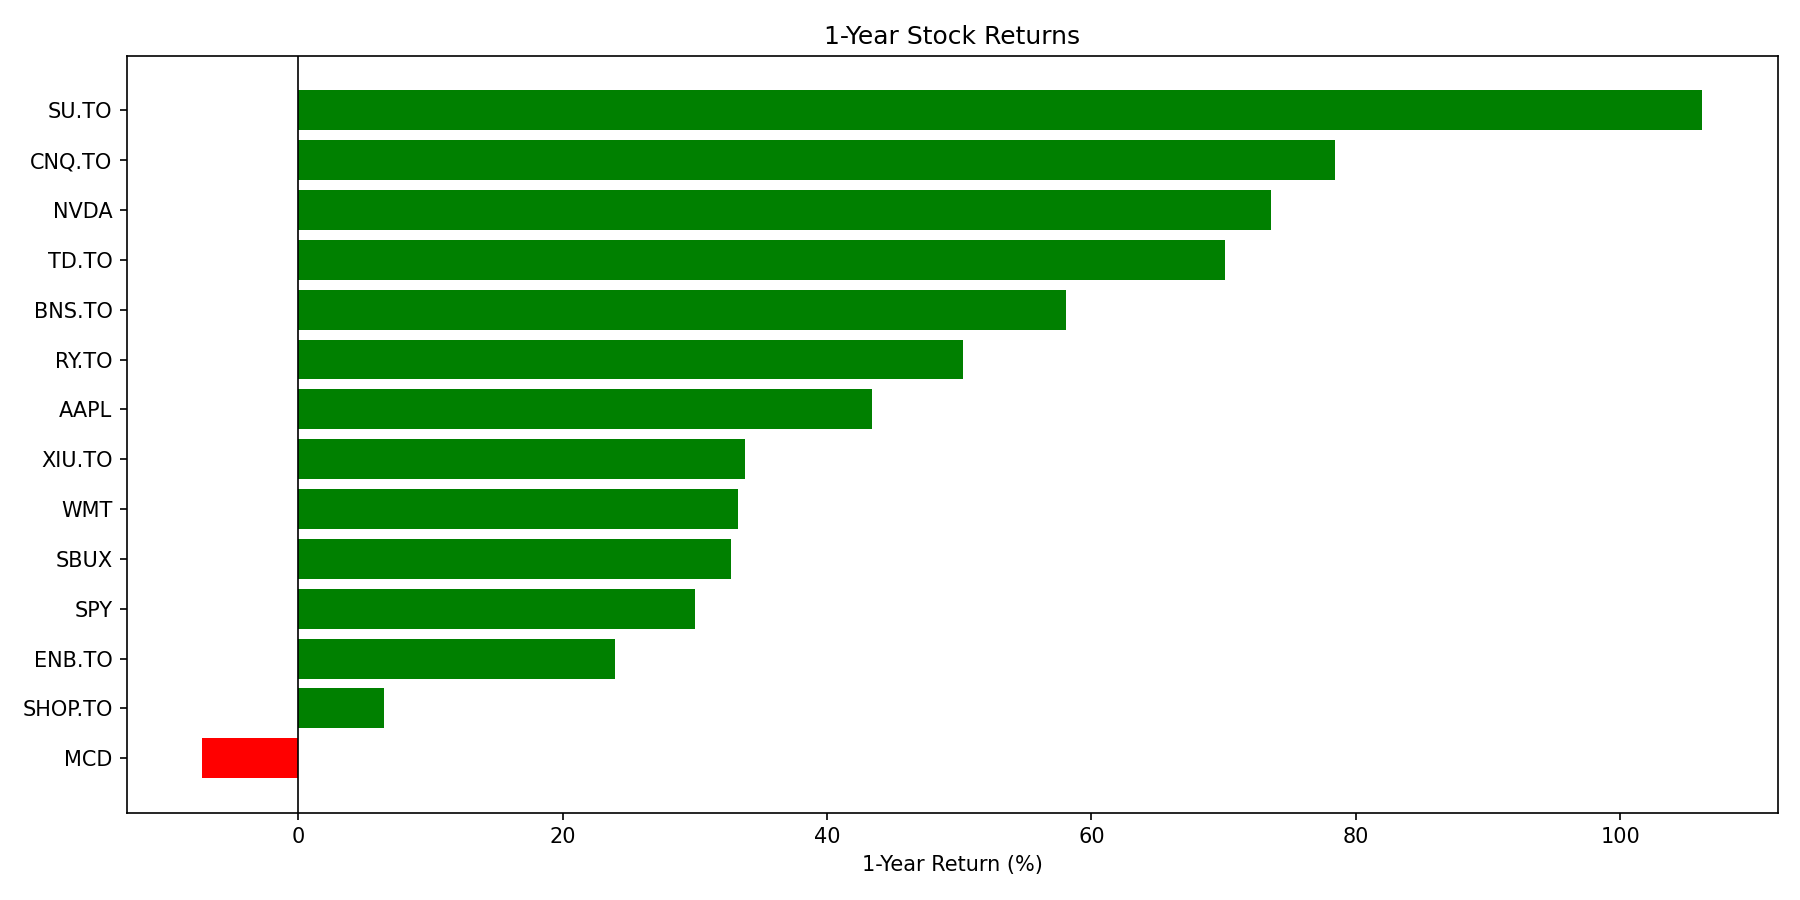
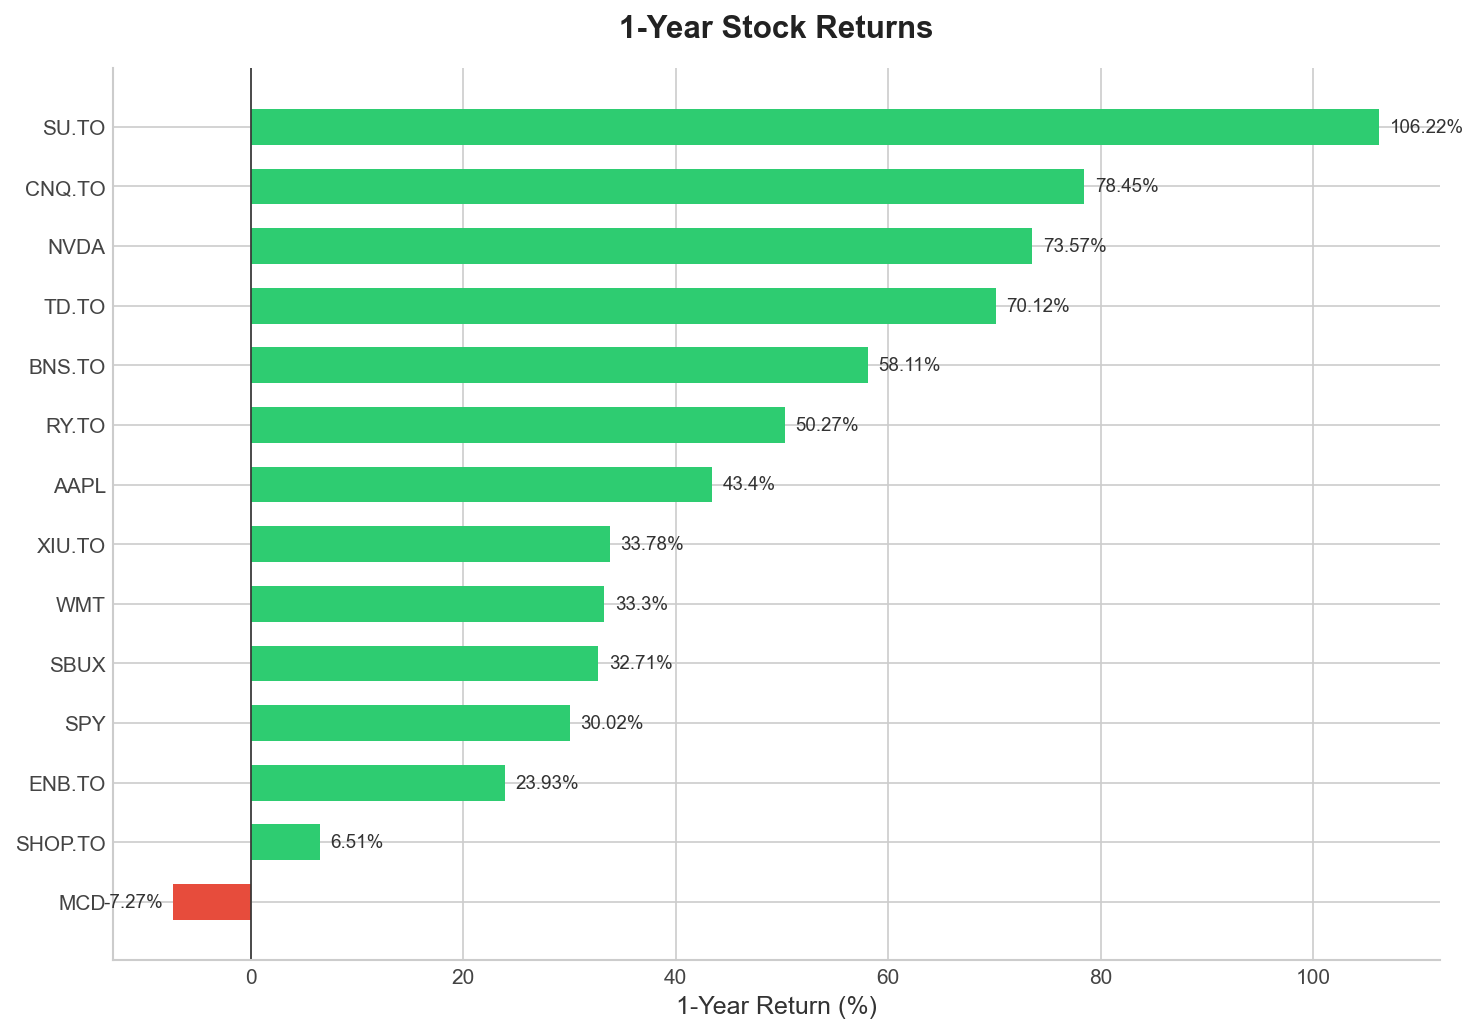
Clean up README

diff --git a/charts.py b/charts.py
@@ -1,12 +1,13 @@
 import pandas as pd
 import matplotlib.pyplot as plt
 import matplotlib
-matplotlib.use('Agg')
-
 import os
+
+matplotlib.use('Agg')
+plt.style.use('seaborn-v0_8-whitegrid')
+
 os.makedirs("outputs", exist_ok=True)
 
-# Load data
 prices = pd.read_csv("prices.csv", index_col=0, parse_dates=True)
 
 sectors = {
@@ -17,27 +18,31 @@ sectors = {
     "Index":          ["SPY", "XIU.TO"]
 }
 
-# Calculate returns
 returns = {}
 for ticker in prices.columns:
     start = prices[ticker].dropna().iloc[0]
     end = prices[ticker].dropna().iloc[-1]
     returns[ticker] = round(((end - start) / start) * 100, 2)
 
-# --- Chart 1: Individual stock returns bar chart ---
-fig, ax = plt.subplots(figsize=(12, 6))
-tickers = list(returns.keys())
-values = list(returns.values())
-colors = ["green" if v >= 0 else "red" for v in values]
-sorted_pairs = sorted(zip(values, tickers))
+# --- Chart 1: Individual stock returns ---
+sorted_pairs = sorted(zip(returns.values(), returns.keys()))
 values_sorted, tickers_sorted = zip(*sorted_pairs)
-colors_sorted = ["green" if v >= 0 else "red" for v in values_sorted]
-ax.barh(tickers_sorted, values_sorted, color=colors_sorted)
-ax.axvline(0, color="black", linewidth=0.8)
-ax.set_xlabel("1-Year Return (%)")
-ax.set_title("1-Year Stock Returns")
+colors = ["#2ecc71" if v >= 0 else "#e74c3c" for v in values_sorted]
+
+fig, ax = plt.subplots(figsize=(10, 7))
+bars = ax.barh(tickers_sorted, values_sorted, color=colors, edgecolor="none", height=0.6)
+ax.axvline(0, color="#333333", linewidth=0.8)
+ax.set_xlabel("1-Year Return (%)", fontsize=12, color="#333333")
+ax.set_title("1-Year Stock Returns", fontsize=15, fontweight="bold", color="#222222", pad=15)
+ax.tick_params(colors="#444444")
+ax.spines["top"].set_visible(False)
+ax.spines["right"].set_visible(False)
+for bar, val in zip(bars, values_sorted):
+    ax.text(val + (1 if val >= 0 else -1), bar.get_y() + bar.get_height()/2,
+            f"{val}%", va="center", ha="left" if val >= 0 else "right",
+            fontsize=9, color="#333333")
 plt.tight_layout()
-plt.savefig("outputs/chart1_returns.png", dpi=150)
+plt.savefig("outputs/chart1_returns.png", dpi=150, bbox_inches="tight")
 print("Saved chart 1")
 
 # --- Chart 2: Sector average returns ---
@@ -46,26 +51,46 @@ for sector, tickers in sectors.items():
     valid = [t for t in tickers if t in returns]
     sector_returns[sector] = round(sum(returns[t] for t in valid) / len(valid), 2)
 
-fig, ax = plt.subplots(figsize=(8, 5))
-ax.bar(sector_returns.keys(), sector_returns.values(), color=["#1f77b4", "#ff7f0e", "#2ca02c", "#d62728", "#9467bd"])
-ax.set_ylabel("Average Return (%)")
-ax.set_title("Sector Average Returns (1 Year)")
+colors2 = ["#3498db", "#e67e22", "#2ecc71", "#e74c3c", "#9b59b6"]
+fig, ax = plt.subplots(figsize=(9, 5))
+bars2 = ax.bar(sector_returns.keys(), sector_returns.values(), color=colors2, edgecolor="none", width=0.5)
+ax.set_ylabel("Average Return (%)", fontsize=12, color="#333333")
+ax.set_title("Sector Average Returns (1 Year)", fontsize=15, fontweight="bold", color="#222222", pad=15)
+ax.tick_params(colors="#444444")
+ax.spines["top"].set_visible(False)
+ax.spines["right"].set_visible(False)
+for bar, val in zip(bars2, sector_returns.values()):
+    ax.text(bar.get_x() + bar.get_width()/2, val + 0.5, f"{val}%",
+            ha="center", va="bottom", fontsize=10, color="#333333")
 plt.tight_layout()
-plt.savefig("outputs/chart2_sectors.png", dpi=150)
+plt.savefig("outputs/chart2_sectors.png", dpi=150, bbox_inches="tight")
 print("Saved chart 2")
 
-# --- Chart 3: Cumulative returns over time per sector ---
+# --- Chart 3: Cumulative sector performance ---
+sector_colors = {
+    "Canadian Banks": "#3498db",
+    "Energy":         "#e67e22",
+    "Tech":           "#2ecc71",
+    "Consumer":       "#e74c3c",
+    "Index":          "#9b59b6"
+}
+
 fig, ax = plt.subplots(figsize=(12, 6))
 for sector, tickers in sectors.items():
     valid = [t for t in tickers if t in prices.columns]
     sector_prices = prices[valid].dropna()
     cumulative = (sector_prices / sector_prices.iloc[0]).mean(axis=1)
-    ax.plot(cumulative.index, cumulative, label=sector)
-ax.set_ylabel("Cumulative Return (1 = start)")
-ax.set_title("Sector Performance Over 1 Year")
-ax.legend()
+    ax.plot(cumulative.index, cumulative, label=sector,
+            color=sector_colors[sector], linewidth=2)
+
+ax.set_ylabel("Cumulative Return (1 = start)", fontsize=12, color="#333333")
+ax.set_title("Sector Performance Over 1 Year", fontsize=15, fontweight="bold", color="#222222", pad=15)
+ax.legend(frameon=True, fontsize=10)
+ax.tick_params(colors="#444444")
+ax.spines["top"].set_visible(False)
+ax.spines["right"].set_visible(False)
 plt.tight_layout()
-plt.savefig("outputs/chart3_cumulative.png", dpi=150)
+plt.savefig("outputs/chart3_cumulative.png", dpi=150, bbox_inches="tight")
 print("Saved chart 3")
 
-print("\nAll charts saved to outputs/ folder!")
+print("\nAll charts saved!")

diff --git a/README.md b/README.md
@@ -1,13 +1,13 @@
 # Canadian Stock Sector Analyzer
 
-A Python-based data analysis project that pulls 1 year of real stock market data for 14 TSX and NYSE stocks across 5 sectors, analyzing returns, volatility, and sector performance.
+A Python data analysis project that pulls 1 year of real stock market data for 14 TSX and NYSE stocks across 5 sectors, calculating returns, volatility, and sector performance.
 
-## What I Found
+## Findings
 
-- **Energy was the top performing sector** with an average return of 69.5%, led by Suncor (SU.TO) at +106%
-- **Canadian Banks** came in second at 59.5%, significantly outperforming the S&P 500 index (+30%)
-- **Shopify** was the most volatile stock but only returned 6.5% — high risk, low reward this year
-- **McDonald's** was the only stock with a negative return at -7.3%
+- Energy was the top performing sector with an average return of 69.5%, led by Suncor (SU.TO) at +106%
+- Canadian Banks came in second at 59.5%, significantly outperforming the S&P 500 index at +30%
+- Shopify was the most volatile stock but only returned 6.5%, high risk low reward this year
+- McDonald's was the only stock with a negative return at -7.3%
 
 ## Sectors Analyzed
 
@@ -21,18 +21,29 @@ A Python-based data analysis project that pulls 1 year of real stock market data
 
 ## Charts
 
-![Sector Performance Over 1 Year](outputs/chart3_cumulative.png)
+![1-Year Stock Returns](outputs/chart1_returns.png)
 ![Sector Average Returns](outputs/chart2_sectors.png)
+![Sector Performance Over 1 Year](outputs/chart3_cumulative.png)
 
 ## Tech Stack
 
-- **Python** — core language
-- **pandas** — data manipulation and analysis
-- **yfinance** — pulling live stock data from Yahoo Finance
-- **matplotlib** — data visualization
-- **Git** — version control
+- Python
+- pandas
+- yfinance
+- matplotlib
+- Git
 
 ## How to Run
 
 1. Clone the repo
 2. Install dependencies:
+
+pip install pandas yfinance matplotlib
+
+3. Collect data and run analysis:
+
+python analysis.py
+
+4. Generate charts:
+
+python charts.py
